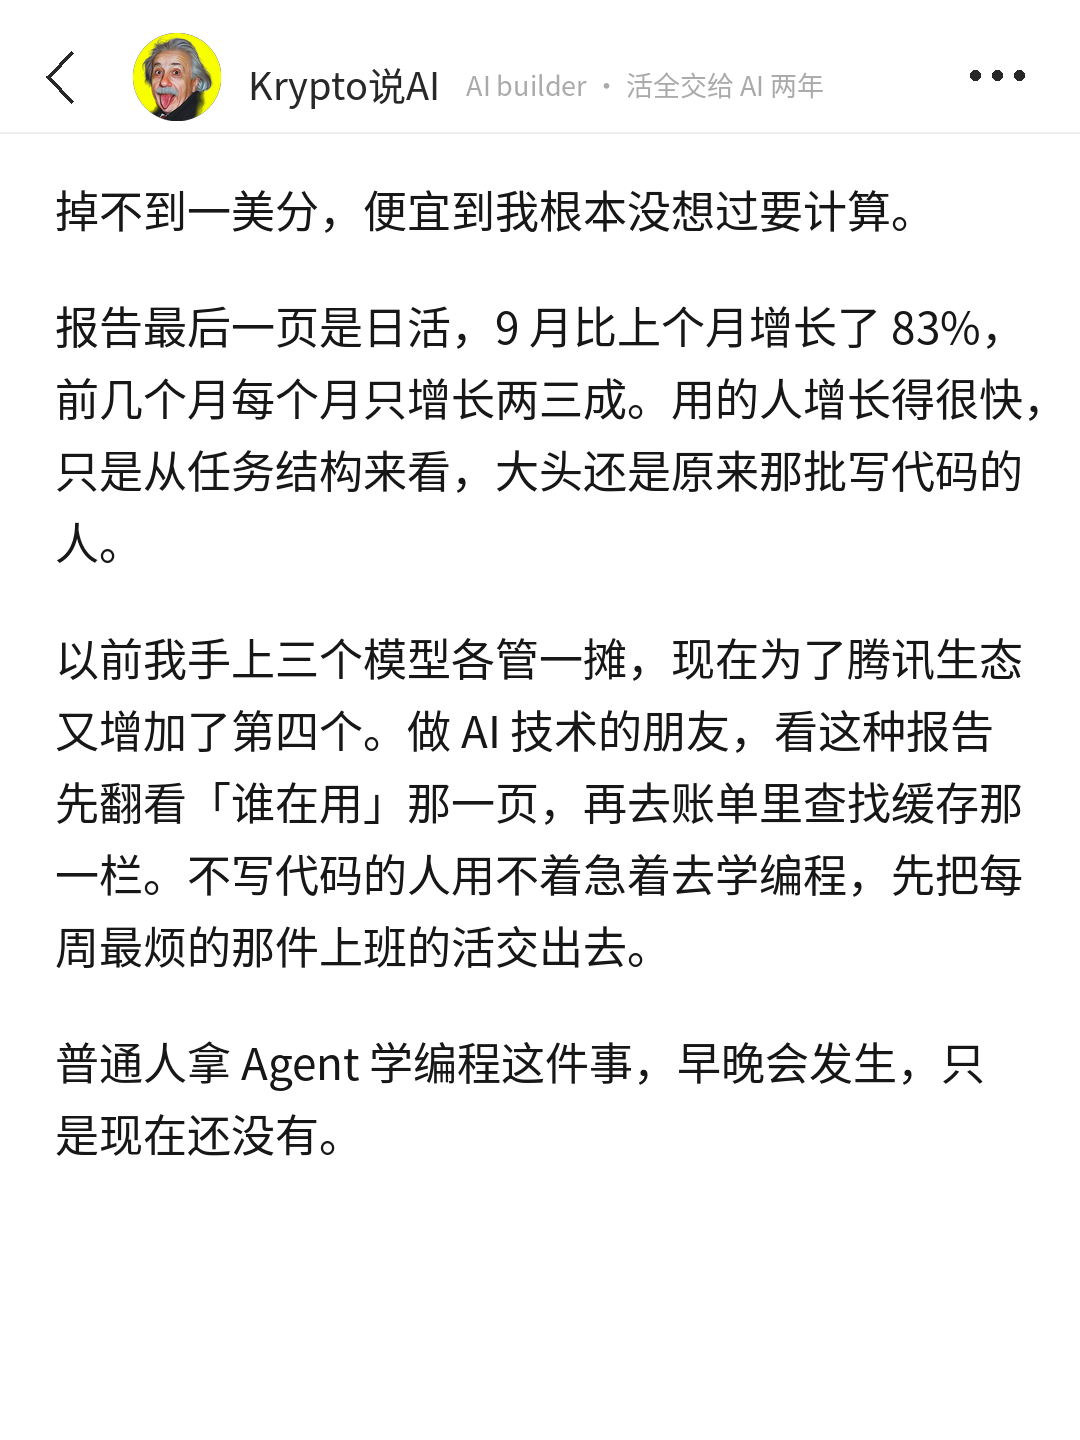
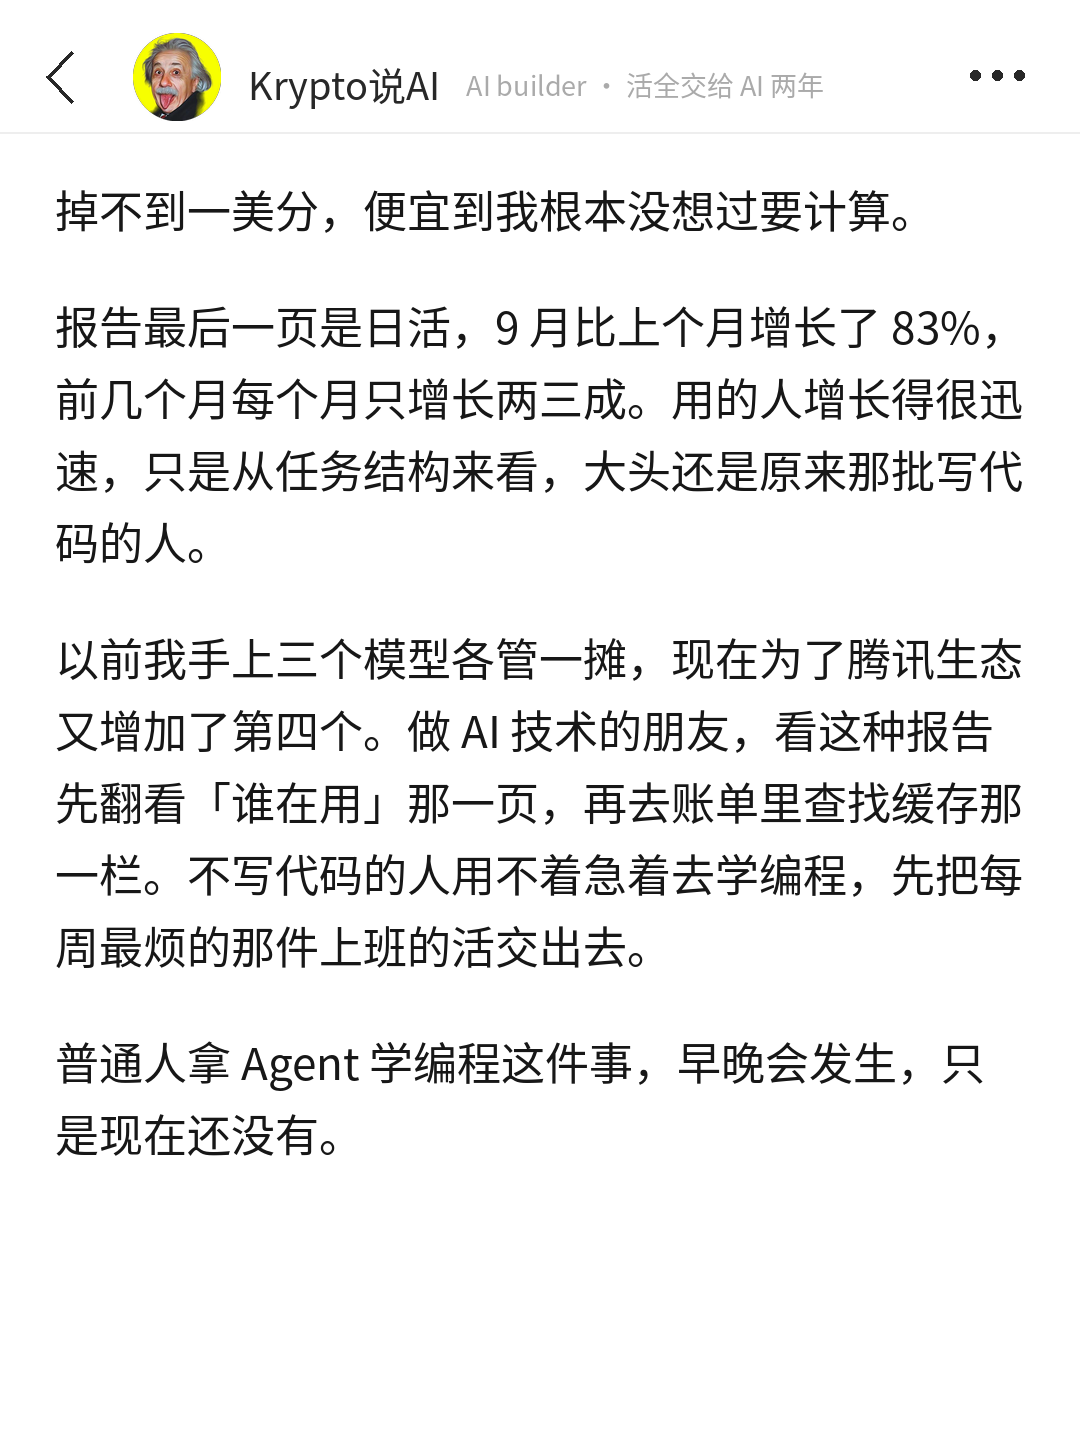
LobsterAI 稿：增长得很快 → 很迅速
Claude-Session: https://claude.ai/code/session_01Nd9vVrWfMU8UJJuz89b5Ky

Changed region(s): [[0.0306, 0.25, 0.9472, 0.4062]]

diff --git a/发布/2026-10-21_lobsterai-night-school/meme版/编辑用/draft.md b/发布/2026-10-21_lobsterai-night-school/meme版/编辑用/draft.md
@@ -58,7 +58,7 @@ account: Krypto说AI
 
 这一块我得老实说，我自己从来没有关注过缓存。上个月底公司企业版的 Codex 额度用完了，我也只是换着用，没去计算钱到底花在了哪里。DeepSeek 我充值了两美元，跑了十几次请求才花掉不到一美分，便宜到我根本没想过要计算。
 
-报告最后一页是日活，9 月比上个月增长了 83%，前几个月每个月只增长两三成。用的人增长得很快，只是从任务结构来看，大头还是原来那批写代码的人。
+报告最后一页是日活，9 月比上个月增长了 83%，前几个月每个月只增长两三成。用的人增长得很迅速，只是从任务结构来看，大头还是原来那批写代码的人。
 
 以前我手上三个模型各管一摊，现在为了腾讯生态又增加了第四个。做 AI 技术的朋友，看这种报告先翻看「谁在用」那一页，再去账单里查找缓存那一栏。不写代码的人用不着急着去学编程，先把每周最烦的那件上班的活交出去。
 
